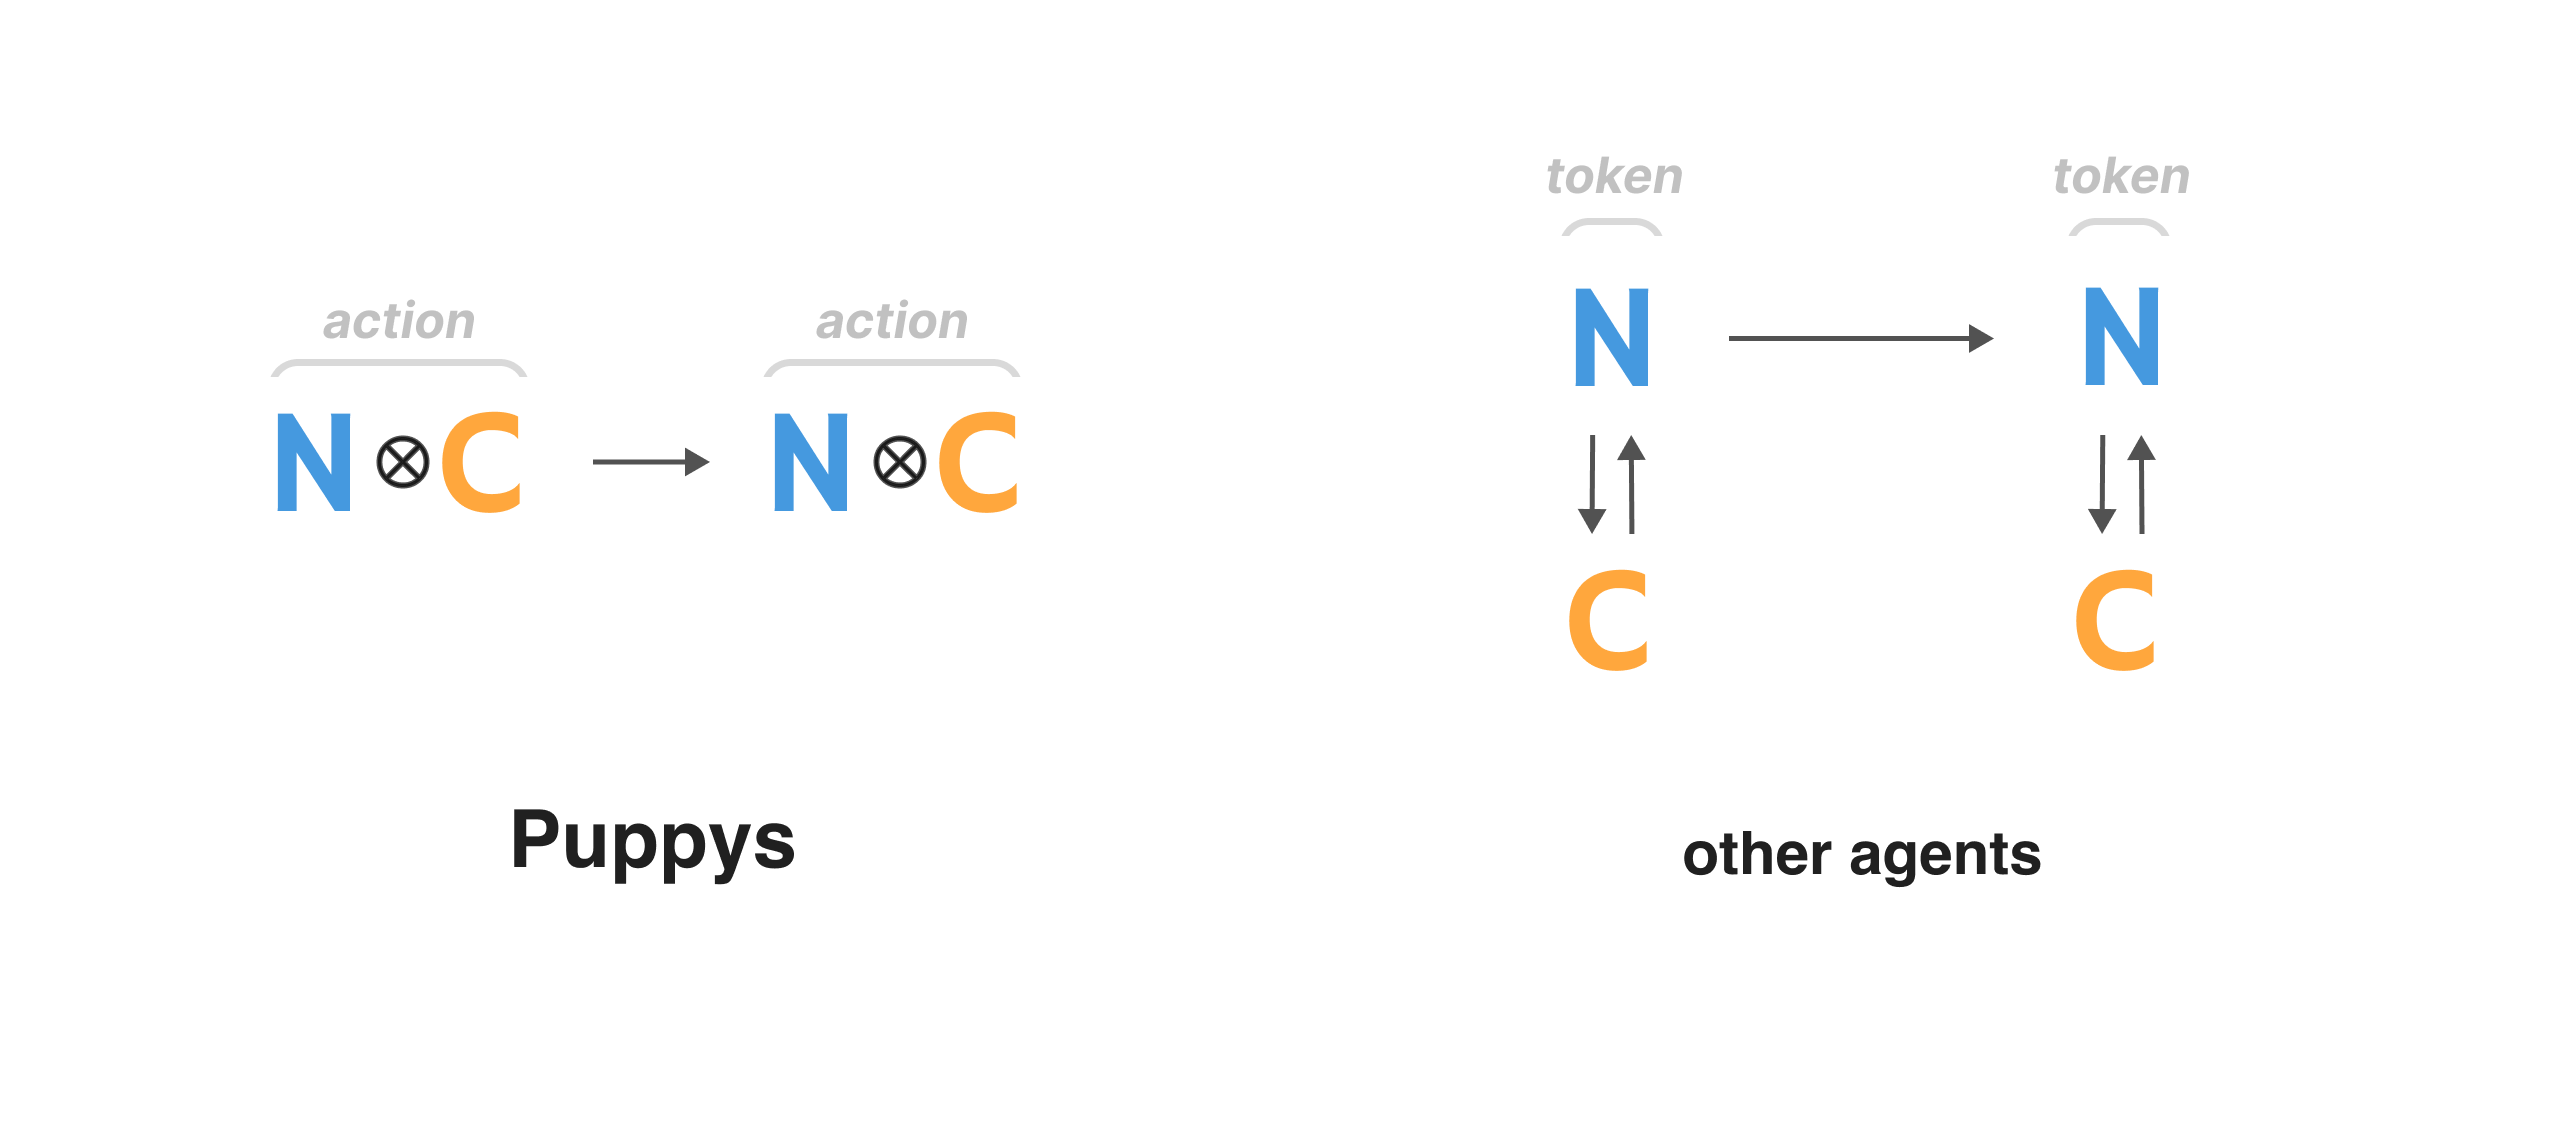
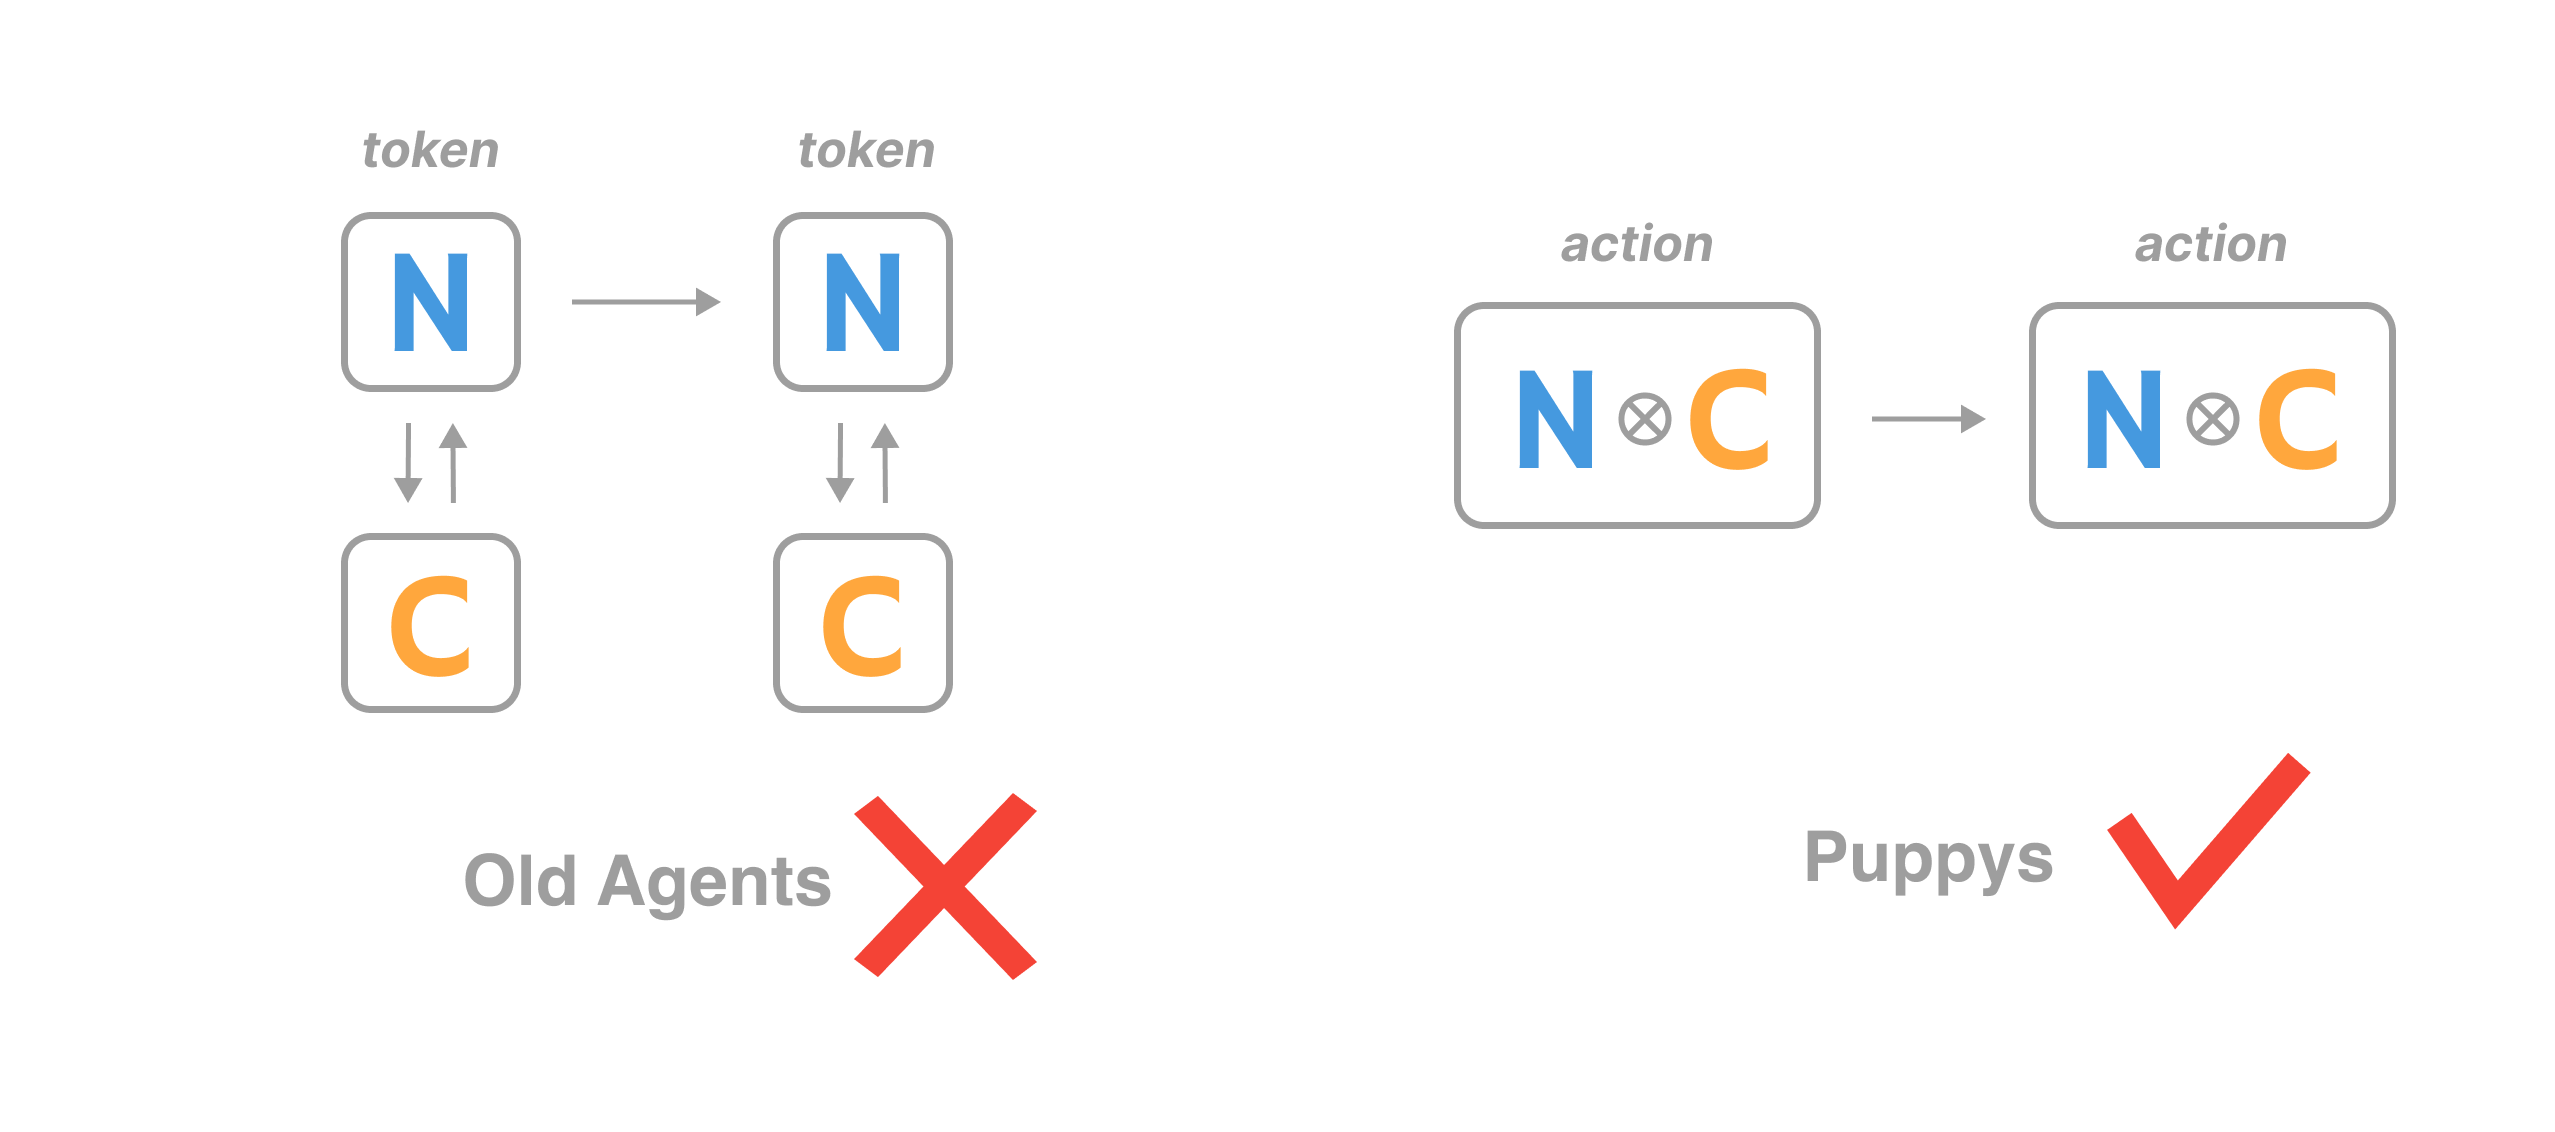
:fire: updated README.md

diff --git a/puppy/pp/actions/check.py b/puppy/pp/actions/check.py
@@ -21,14 +21,15 @@ def check(puppy_instance, action_name: str = "", tool_list: list = [], model="gp
 
     3. Your response cannot only be comment. You HAVE to write codes
 
-     You justify if your current action is done or not, you have two choices: 1. Done: That means 
-    you don't need to write code to achieve it again. The action history shows that you have already know what 
+     You justify if your current action is done or not, you have two choices: 
+        a. Done: That means you don't need to write code to achieve it again. The action history shows that you have already know what 
     you want to know or have already achieve the action. In this case, you should write Python code to return 
-    Ture, and your generated code should be: isFinished=True
-
-    2. Unfinished: That means you need to write code to achieve it again, or there are some unfinished actions that you 
+    Ture, and your generated code should be: isFinished=True 
+        b. Unfinished: That means you need to write code to achieve it again, or there are some unfinished actions that you 
     need to make . In this case, you should write Python code to return False, and the your generated code should be: 
     isFinished=False
+    
+    4. You can only write code that contain True or False. You CANNOT write code that contains or import other values or other code.
 
     for example:
     1. current action:
@@ -40,7 +41,7 @@ def check(puppy_instance, action_name: str = "", tool_list: list = [], model="gp
 
     your response:
     # the action is not done, because I get what I should send, but I haven't send it yet. Maybe next action is to send it
-    isFinished=False
+    isFinished=False 
 
     2. current action:
     get what happened about COVID in the the 2nd Feb 2020 @google search

diff --git a/puppy/pp/actions/do.py b/puppy/pp/actions/do.py
@@ -1,9 +1,9 @@
 from puppy.llm.open_ai import open_ai_chat
 from puppy.env.func_env import FuncEnv
 import os
+from puppy.pp.actions.explore import explore
 
-
-def do(puppy_instance, action_name: str, tool_list: list, model="gpt-4-turbo", show_prompt=False, show_response=False):
+def do(puppy_instance, action_name: str, tool_list: list = None, model="gpt-4-turbo", show_prompt=False, show_response=False):
 
     """
     write code to achieve the action
@@ -39,7 +39,7 @@ in your final response as code. When the do(XXX) appears, you HAVE TO change it 
 
 You default function is writing python code, it's good at any task that python packages can achieve. But make sure that you write code to import the given package.
 You are also allowed to use the customized functions below, use them by just writing code as the example. the description shows how to use them.
-{puppy_instance.explore(puppy_instance, target=FuncEnv, output_content_mode="attribute", attributes=[ "name", "description"])}
+{explore(puppy_instance, target=FuncEnv, output_content_mode="attribute", attributes=[ "name", "description"])}
 
 The code for historical, current, and future actionflow shown as code are:{puppy_instance.all_code}.
 Now you write code to achieve your action(Note that the tools after@ is recommended tools, if it exists): {action_name}

diff --git a/puppy/pp/actions/explore.py b/puppy/pp/actions/explore.py
@@ -67,7 +67,7 @@ def explore(environment: Env,
         for k, v in environment.env_dict.items():
 
             if isinstance(v, target):
-                target_env_dict = env_to_dict(v, attributes)
+                target_env_dict[k] = env_to_dict(v, attributes)
 
         self_env_dict = env_to_dict(environment, attributes)
 
@@ -93,6 +93,7 @@ if __name__ == "__main__":
     env = Env(value="museum in Paris", name="the maple", description="It's a beautiful place")
 
     env.Louvre = Env(value="good", name="Louvre", description="It's a beautiful museum")
+    env.Eiffel = Env(value="bad", name="Eiffel", description="It's a ugly tower")
 
     print(explore(env, target=Env,
                   attributes=["value", "name", "description"], output_content_mode="attribute",

diff --git a/puppy/pp/main.py b/puppy/pp/main.py
@@ -69,15 +69,12 @@ class Puppy(Env):
 
             self.runtime_vars_dict.update(local_vars)
 
-            print(code,code, "/n", self.global_var_dict, "/n", self.runtime_vars_dict)
-
             # execute the code
             exec(code, self.global_var_dict, self.runtime_vars_dict)
 
     def run(self) -> None:
 
         tools_dict = explore(self, target=FuncEnv)
-        print("the tool dict is:/n ", tools_dict)
 
         self.runtime_vars_dict.update(tools_dict.items())
 

diff --git a/user_case/hacker_news.py b/user_case/hacker_news.py
@@ -12,7 +12,7 @@ from puppy.pp.mei import Mei
 
 def hacker_news_decisiontree(self):
 
-    self.do_check("go to https://news.ycombinator.com/ show the HTML", show_prompt=True, show_response=True)
+    self.do_check("go to https://news.ycombinator.com/ show the HTML", show_response=True)
 
     self.do_check("show the top 10 news @llm, and send it to me", show_response=True)
 

diff --git a/puppy/tools/defaultTools/talk_with_human.py b/puppy/tools/defaultTools/talk_with_human.py
@@ -13,7 +13,8 @@ def talk_with_human(puppy, message):
 
     for example:
     ## Ask the user about the phone number of his boss
-    talk_with_human(message=" What's the phone number of your boss?")
+    question="What's the phone number of your boss?"
+    talk_with_human(message=question) # the message is essential
     """
 
     with redirect_stdout(sys.__stdout__):

diff --git a/user_case/internet_search.py b/user_case/internet_search.py
@@ -7,7 +7,7 @@ from puppy.env.func_env import FuncEnv
 from puppy.pp.mei import Mei
 
 # change the API key to your own
-os.environ['PERPLEXITY_API_KEY'] = "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"
+# os.environ['PERPLEXITY_API_KEY'] = ""
 # os.environ["OPENAI_API_KEY"] = ""
 
 

diff --git a/puppy/pp/mei.py b/puppy/pp/mei.py
@@ -27,6 +27,7 @@ class Mei(Puppy):
                                        fixed_params={"puppy": self},
                                        free_params=["message"])
 
+
     def do_check(self, *args, **kwargs):
         return do_check(self, *args, **kwargs)
 

diff --git a/puppy/pp/actions/do_check.py b/puppy/pp/actions/do_check.py
@@ -1,6 +1,6 @@
 def do_check(puppy_instance,
              action_name: str = "",
-             tool_list: list = [],
+             tool_list: list = None,
              model="gpt-4-turbo",
              show_prompt=False, show_response=False):
 

diff --git a/README.md b/README.md
@@ -1,54 +1,68 @@
 
-<img src="./assets/PuppysHorizon.png" alt="Image">
 
+<p align="center">
+    <picture>
+      <img src="./assets/PuppyAgentLOGOBig.png" alt="Image" height="120
+      ">
+    </picture>
+    <h1 align="center">Puppys</h1>
+</p>
 
 <div align="center">
 
-*Code-Driven AI Agentic system framework*
-
-[![Twitter Follow](https://img.shields.io/twitter/follow/PuppyAgentTech?label=PuppyAgent_Lab&style=social)](https://twitter.com/PuppyAgentTech) &ensp;
-</div>
-
-<div align="center">
+**Framework for Plug-and-Play Agentic System**
 
 **📜 [Document](https://mulberry-magician-e0a.notion.site/Puppys-document-83e2e55cfd27449589a6a721402ff4bc?pvs=4)**
-&ensp;|&ensp;
+&ensp;&ensp;
 **🔌 [Install](https://mulberry-magician-e0a.notion.site/Install-453ccfa356a04eda865c68e489d0e6bf?pvs=4)**
-&ensp;|&ensp;
+&ensp;&ensp;
 **⚽ [QuickStart](https://mulberry-magician-e0a.notion.site/Quick-Start-f4f383324012448180049f78035ccfa2?pvs=74)**
 
+[![Twitter](https://img.shields.io/badge/-PuppyAgent-1DA1F2?style=flat&logo=X&logoColor=ffffff&color=%23000000&)](https://twitter.com/PuppyAgentTech) &ensp;
+[![Discord](https://img.shields.io/badge/-PuppyAgent-7289DA.svg?logo=discord&labelColor=%235462eb&logoColor=%23ffffff&color=%235462eb&label=&style=flat)](https://discord.com/channels/1249674961199829053/1249674961644163164)
+
+
 </div>
 
-* **Code-Driven**: The agent's thought and response are entirely code, instead of chat, meaning more interpretable and more controllable.
-* **Plug and Play**: Agentic capabilities can be integrated into ANY part of your enterprise's codebase
-* **Lite**: Minimal dependencies and minimal wrappers, mean that enterprises can develop flexibly and scalably.
+<hr>
 
 <div align="center">
 
-**-------------  🔥 Version 0.0.26 (30-May-2024):  -------------**
 
+-**Plug and Play**-
+
+*Insert agentic ability into anywhere your existing enterprise code.*
+
+-**Make Agent Robust**-
+
+*Instruct agents via code, leading configurable and robust.*
+
+-**Lite**-
+
+*Less dependency, more scalability.*
 </div>
-
-1. **Redesigned Grammar**: Now you use do(action) instead of ##action do().
-2. **Supporting Parameters in Decisiontree**: parameter can be customized in decisiontree.
-3. **Decouple Doing and Checking**: Checking and doing an action is different, now you can define them.
-4. **Another User Case**: Playing Gotcha Game with 4 agents!
-
-## Building an agent just like building a Turing machine
-
-When programming an agent, what exactly are we programming?
-
-We can draw some inspiration from the history of computer science. Consider a Turing machine:
-
-We need to define its decision tree (finite state machine) and the environment (tape) in which the agent operates.
-
-The advantage is that by defining a confined environment, we can effectively explore continuous learning within a specific domain.
 
 <div align="center">
-<img src="./assets/decisionTree_Enviroment.png" alt="Image" width="800">
+<img src="./assets/intro_diagram.png" alt="Image" width="800">
 </div>
 
-## Hybrid solution of Agent and RPA
+
+
+<div align="center">
+
+## Plug-and-Play
+
+<img src="./assets/plug&play.png" alt="Image" width="800">
+</div>
+
+
+
+
+<div align="center">
+
+## Make Agent Robust
+
+</div>
 
 **Agents** can do tasks by themselves and work in many situations, but only be able to solve very simple problems.
 **RPA** (Robotic Process Automation), on the other hand, can handle complex tasks but isn't very flexible. So, here is a question: **what if we make a hybrid agent that mix the advantages of agents and RPA?** Could this idea work?
@@ -64,7 +78,7 @@ Giving the agent a confined environment, and let the agent evolves in the confin
 
 
 
-## Agent's planning: Talk is shit, show me your code!
+## Code-Driven
 
 When an agent perceives its environment, thinks, and acts, what language does it use? Is it **natural language**, or **code language**?
 
